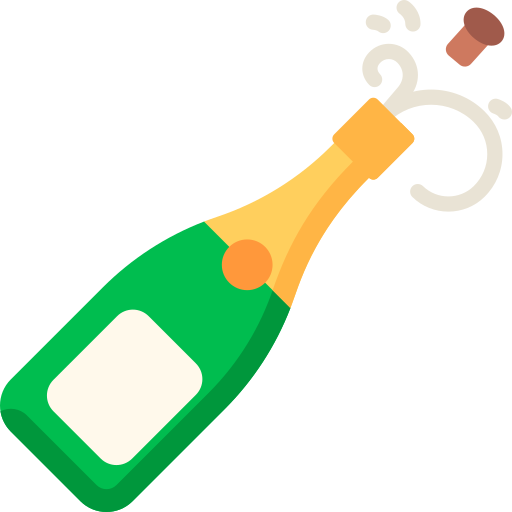
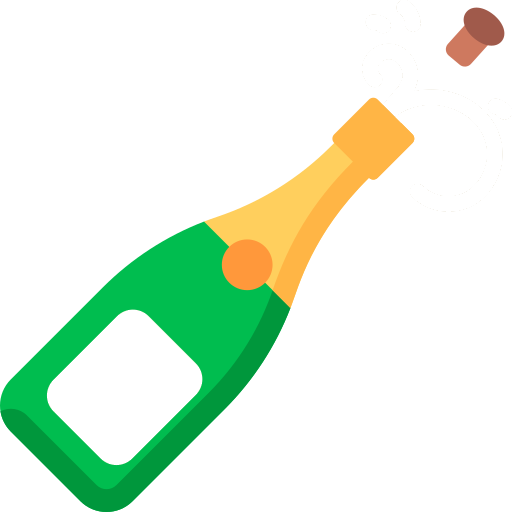
Meghívó pezsgő ikon: fehér háttér (CSS + PNG)

Changed region(s): [[0.6875, 0.0, 1.0, 0.4375]]

diff --git a/styles.css b/styles.css
@@ -218,7 +218,7 @@ html[data-invite='chooser'] #envelope-overlay {
 }
 
 .invite-landing__icon-wrap--invite-img {
-  background: #f4efe6;
+  background: #fff;
   overflow: hidden;
   padding: 10px;
   box-sizing: border-box;
